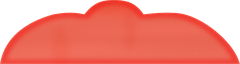
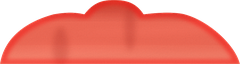
1 船气泡改固定视口层+夹在画面内(尾指船),不再晃出屏；2 海天线改有机波浪曲线(正弦alpha合成)不再直线；3 红山补顶影/水渍(深红shade)与蓝山一致；4 顺句状态改小字'正在理解您说的'+三点跳动；5 试听克隆/原声改https+音量1+错误提示；6 加图icon/缩略图缩到120rpx(文字为主)；7 生日滚轮默认1970年(birthIdx40)

Changed region(s): [[0.4375, 0.0938, 0.5542, 0.2812]]

diff --git a/miniprogram/pages/ocean/ocean.js b/miniprogram/pages/ocean/ocean.js
@@ -40,7 +40,8 @@ Page({
     liveBig: false, liveExpanded: false, liveFollow: true, liveTail: '',
     previewStatus: '', previewEmotion: false,
     // 生日引导：鲸鱼气泡+回答建议（称呼在杭航菜单设置）
-    birthSkipped: false, birthOther: false, birthOtherVal: '',
+    birthSkipped: false, birthOther: false, birthOtherVal: '', birthIdx: 40,
+    bbLeft: 24, bbTop: 200, bbTail: 180,
     greetTitle: '晚上好', greetBody: '今天想聊哪一段？按住下面慢慢说，我听着。', boatBottom: 200,
     birthYears: (() => { const a = []; for (let y = 2010; y >= 1920; y--) a.push(y + '年'); return a })()
   },
@@ -125,7 +126,8 @@ Page({
     if (this._voiceAudio) { this._voiceAudio.stop(); this._voiceAudio.destroy(); this._voiceAudio = null; return }
     this._voiceAudio = wx.createInnerAudioContext()
     this._voiceAudio.obeyMuteSwitch = false
-    this._voiceAudio.src = v.sampleUrl
+    this._voiceAudio.src = String(v.sampleUrl).replace(/^http:/, 'https:')
+    this._voiceAudio.volume = 1
     this._voiceAudio.onEnded(() => { this._voiceAudio.destroy(); this._voiceAudio = null })
     this._voiceAudio.play()
   },
@@ -214,6 +216,7 @@ Page({
       worldWidth: W, worldHeight: H, movX: mx, movY: 0,
       boatX: lay.boatX, boatBottom: lay.boatBottom
     })
+    this.updateBubble()
   },
 
   async refreshData () {
@@ -237,6 +240,7 @@ Page({
       greetBody: icebergs.length ? '今天想聊哪一段？按住下面慢慢说，我听着。' : '海还空着。按住说一段，第一座雪山就落下来。'
     })
     this.setupWorld(true)
+    this.updateBubble()
   },
 
   clearNewBerg (pid) {
@@ -531,6 +535,7 @@ Page({
     ui.toast(`记下了，${y}年`, 2000)
   },
   onBirthPick (e) {
+    this.setData({ birthIdx: Number(e.detail.value) })
     const y = 2010 - Number(e.detail.value)
     const p = life.getProfile() || {}
     life.setProfile(Object.assign({}, p, { mode: 'year', year: y }))
@@ -542,7 +547,19 @@ Page({
     const id = e.currentTarget.dataset.id
     if (id) wx.navigateTo({ url: `/pages/iceberg/iceberg?id=${id}` })
   },
-  onSeaChange (e) { this._movX = e.detail.x; this._movY = e.detail.y },
+  onSeaChange (e) { this._movX = e.detail.x; this._movY = e.detail.y; this.updateBubble() },
+  // 气泡固定视口并夹在画面内，尾指船
+  updateBubble () {
+    const info = sea.windowSize()
+    const W = info.W, H = info.H
+    const bx = (this.data.boatX || 0) + (this.data.movX || 0) + 47
+    const by = H - (this.data.boatBottom || 0) - 142
+    const bw = 220, bh = 150
+    const left = Math.max(8, Math.min(W - bw - 8, bx - 194))
+    const top = Math.max((this.data.capsuleBottom || 88) + 8, Math.min(H - 220, by - bh - 12))
+    const tail = Math.max(12, Math.min(bw - 26, bx - left - 7))
+    this.setData({ bbLeft: Math.round(left), bbTop: Math.round(top), bbTail: Math.round(tail) })
+  },
   // 双指捏合缩放（聚拢缩小 / 打开放大）
   onSeaScale (e) {
     // 只认用户双指捏合（有触摸）；页面重排的伪 scale 事件一律忽略

diff --git a/miniprogram/pages/stages/stages.js b/miniprogram/pages/stages/stages.js
@@ -161,8 +161,10 @@ Page({
     if (this._va) { this._va.stop(); this._va.destroy(); this._va = null; return }
     this._va = wx.createInnerAudioContext()
     this._va.obeyMuteSwitch = false
-    this._va.src = this.data.voiceSampleUrl
+    this._va.volume = 1
+    this._va.src = String(this.data.voiceSampleUrl).replace(/^http:/, 'https:')   // 真机需 https
     this._va.onEnded(() => { this._va.destroy(); this._va = null })
+    this._va.onError(() => { wx.showToast({ title: '试听没成功，再点一次', icon: 'none' }); this._va.destroy(); this._va = null })
     this._va.play()
   },
   async deleteVoice () {
